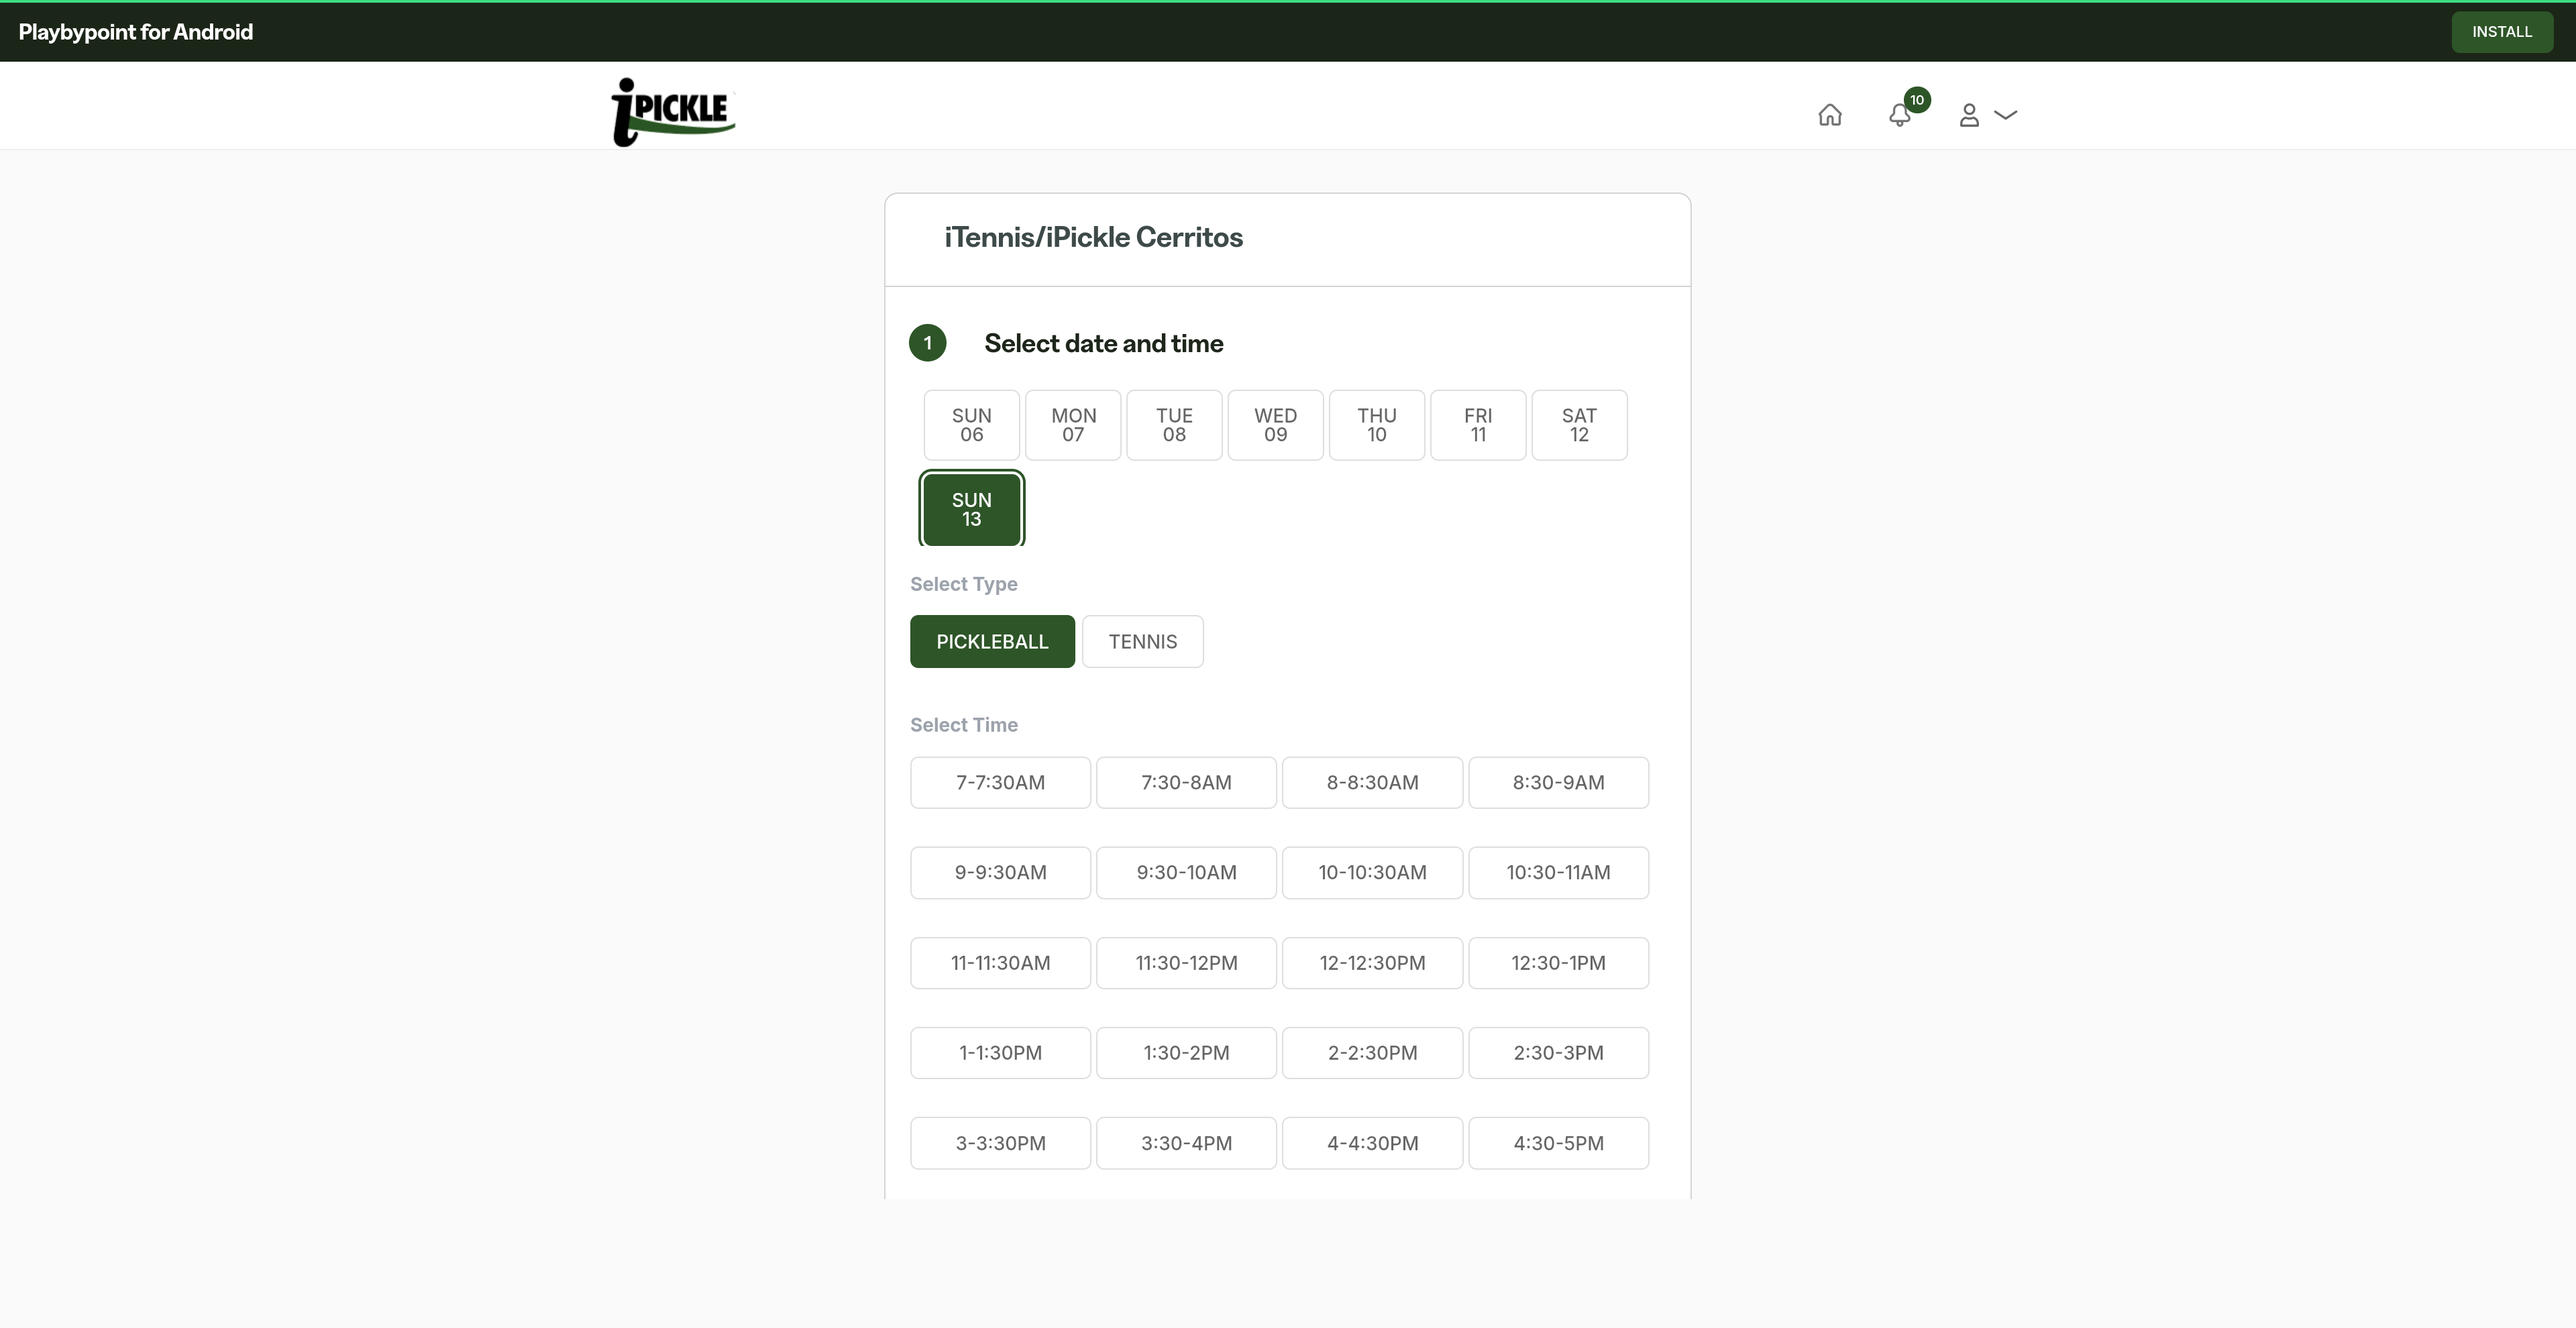
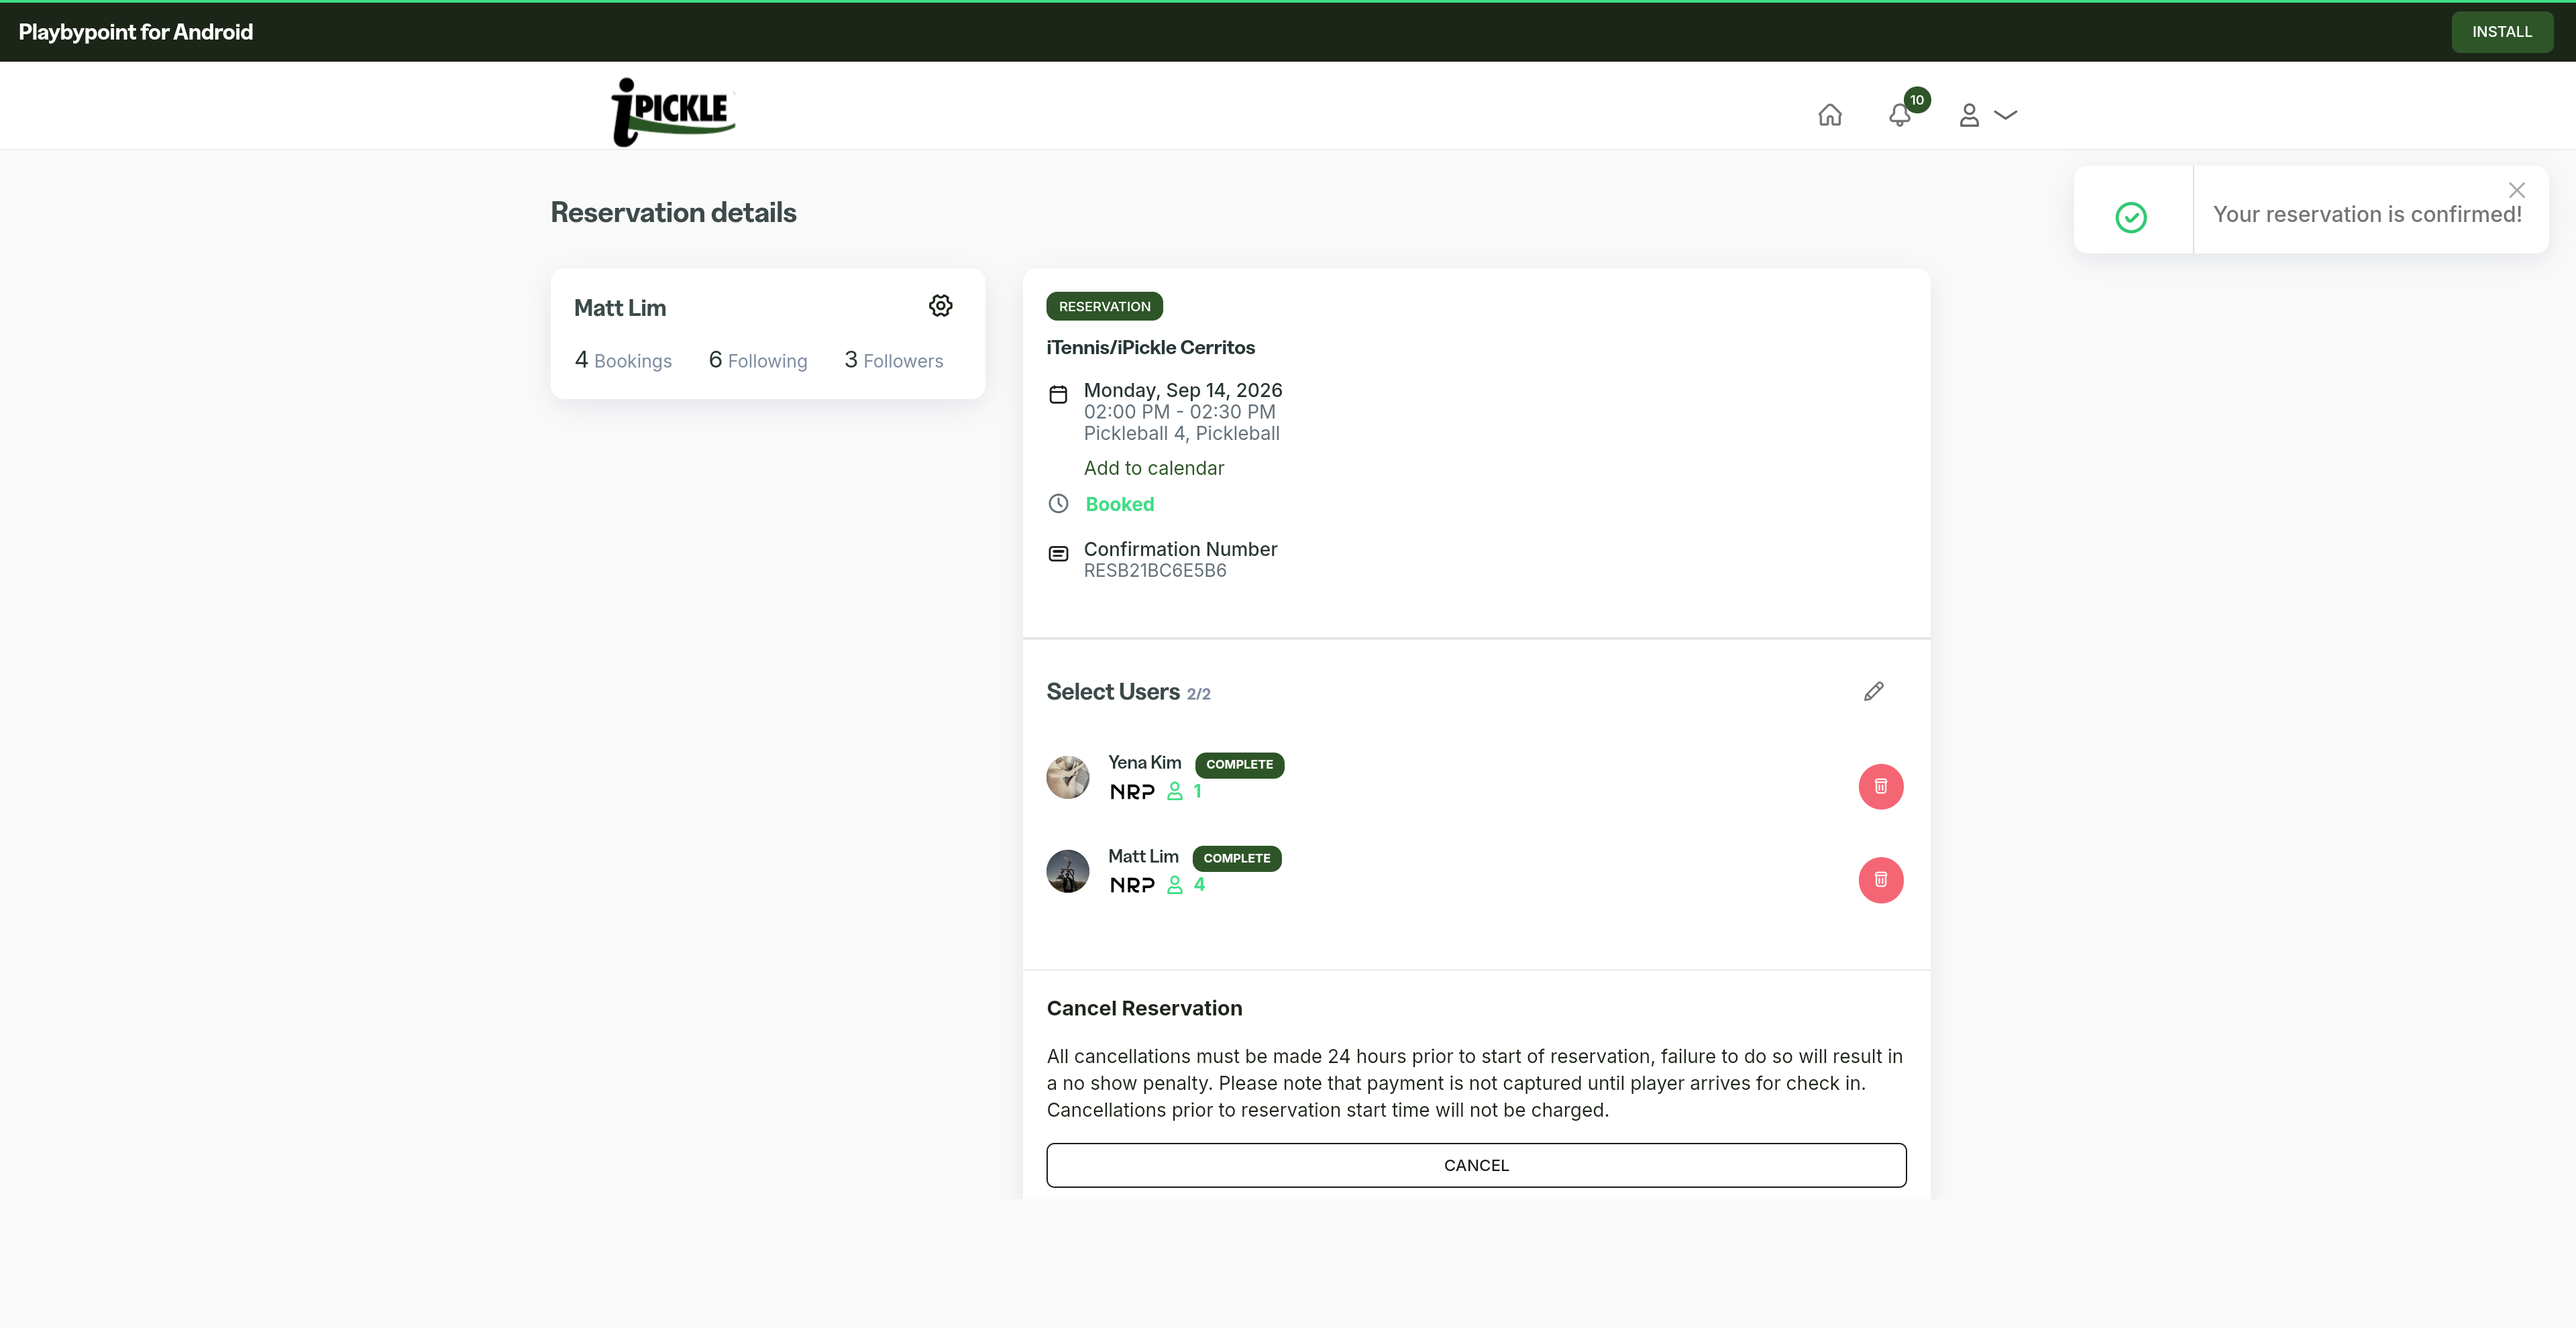
temp testing mon booking

diff --git a/src/browser/navigate-to-booking.ts b/src/browser/navigate-to-booking.ts
@@ -14,7 +14,9 @@ function getNextWeek(): string {
     const pstNowString = now.toLocaleString('en-US', { timeZone: 'America/Los_Angeles' });
     const pstNow = new Date(pstNowString);
     const sevenDaysLater = new Date(pstNow.getTime() + 7 * 24 * 60 * 60 * 1000);
-    const dayOfMonth = sevenDaysLater.getDate().toString().padStart(2, '0');
+    let dayOfMonth = sevenDaysLater.getDate().toString().padStart(2, '0');
+    // temp
+    dayOfMonth="14";
     return `//div[@class='day_number' and text()='${dayOfMonth}']`;
 }
 

diff --git a/src/browser/book-reservation.ts b/src/browser/book-reservation.ts
@@ -344,8 +344,7 @@ export async function bookReservation(
     "Next",
     bookingSelectors.nextUser,
   );
-
-
+  
   // Book
   await clickXPathFast(
     browser,
